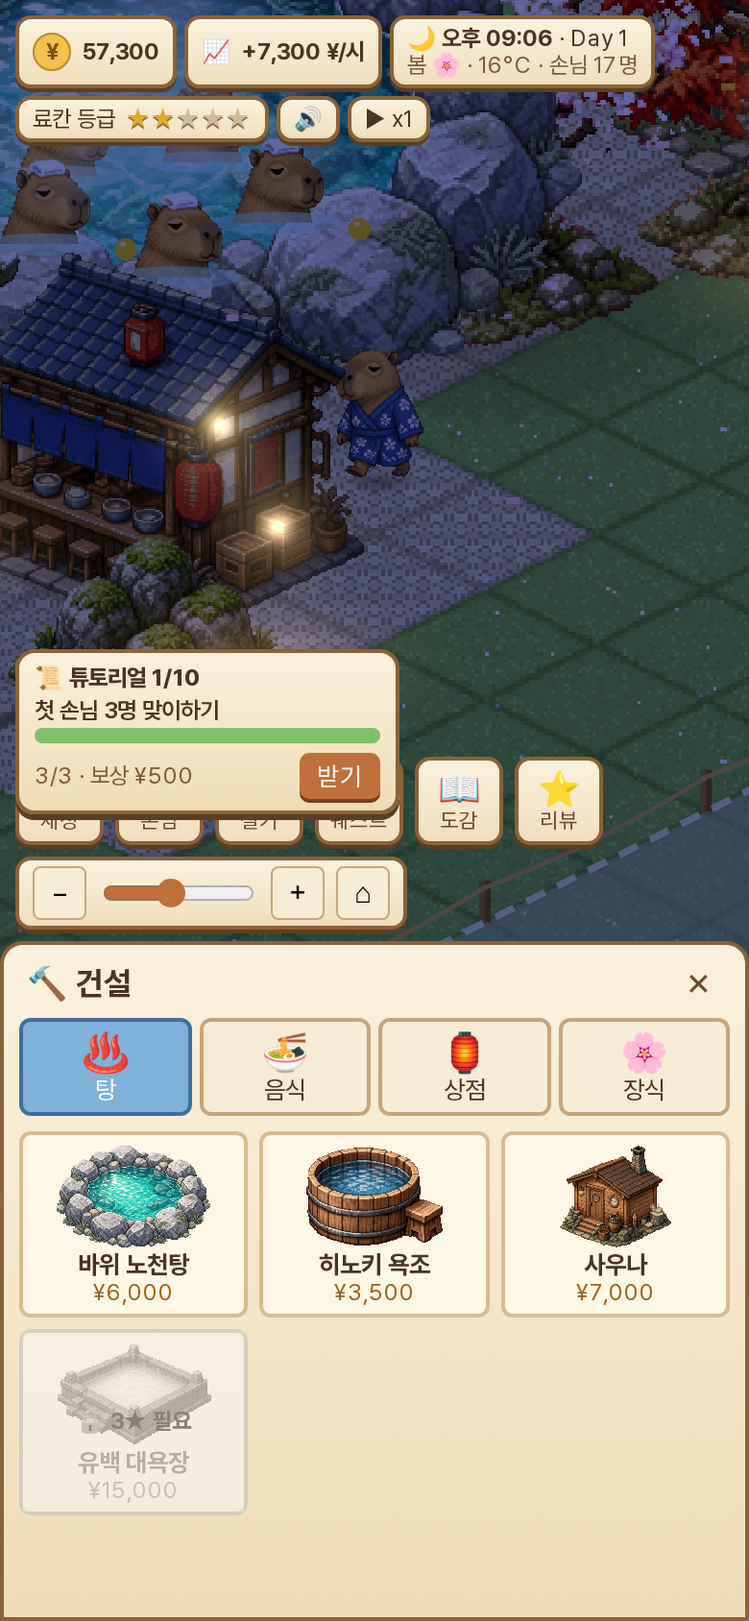
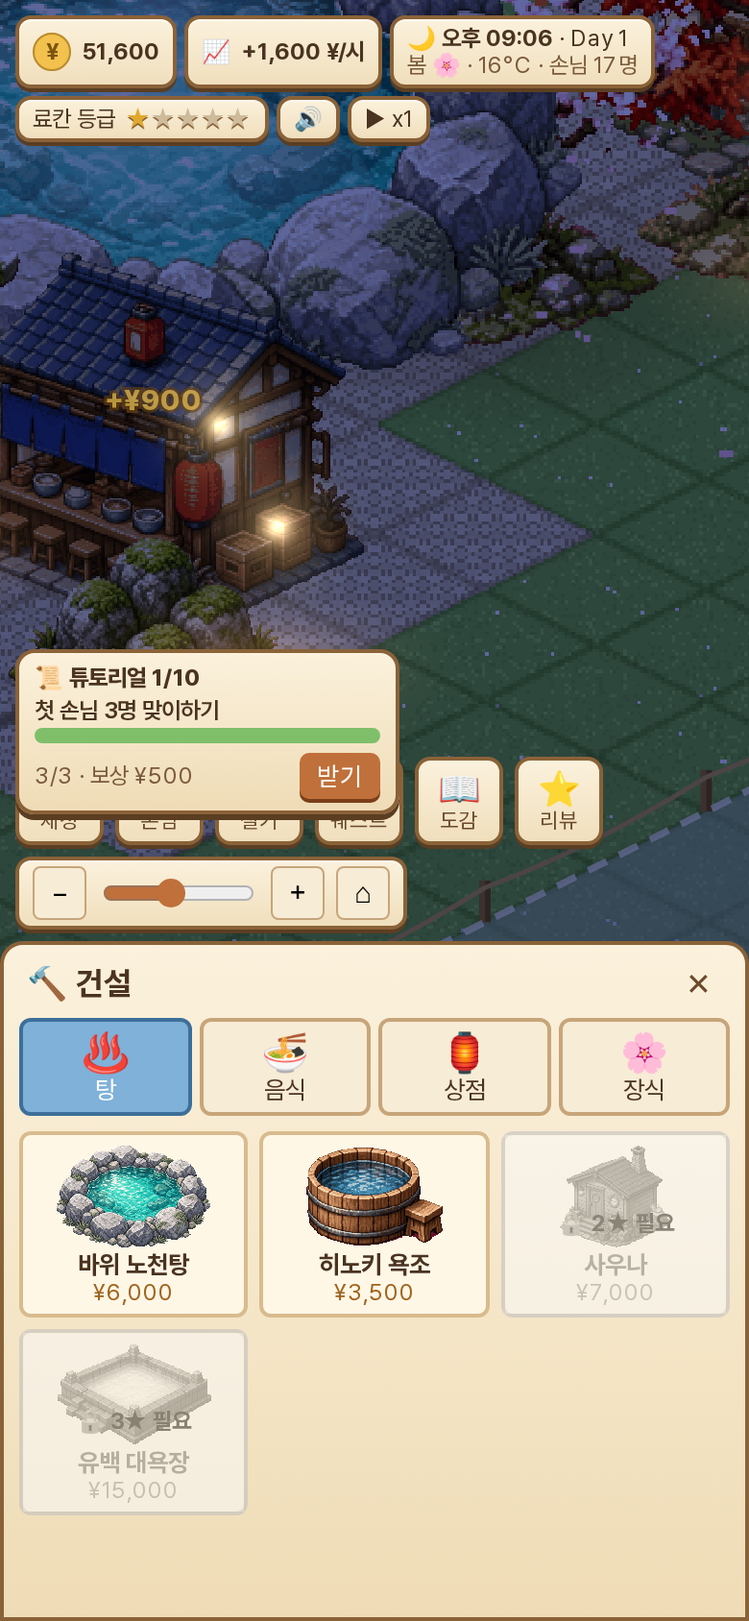
v2.6 ambient + zen mode

diff --git a/game.js b/game.js
@@ -17,9 +17,9 @@ const DEF={
  yuzu:{n:'유자차 매점',tab:'shop',img:'yuzu',fp:2,sc:1,cost:2500,price:350,cap:3,dur:8,eff:{thirst:-60,fun:8},wage:25,star:1,appeal:6,desc:'따끈한 유자차 한 잔'},
  gift:{n:'기념품 가게',tab:'shop',img:'gift',fp:2,sc:1,cost:6000,price:1500,cap:3,dur:12,eff:{fun:-0,joy:30},wage:50,star:2,appeal:7,fun:1,light:[[0.2,-0.4]],desc:'카피바라 인형이 인기'},
  room:{n:'객실 별채',tab:'shop',img:'room',fp:3,sc:1,cost:12000,price:6000,cap:4,dur:0,eff:{fatigue:-100},wage:90,star:2,appeal:10,stay:1,light:[[-0.2,-0.3],[0.25,-0.3],[0,-0.55]],desc:'밤에 묵어가는 손님용 객실'},
- sakura:{n:'벚꽃나무',tab:'deco',img:'sakura',fp:1,sc:2.3,cost:1200,beauty:8,star:1,emit:'petal',desc:'꽃잎이 흩날려요'},
- maple:{n:'단풍나무',tab:'deco',img:'maple',fp:1,sc:2.3,cost:1200,beauty:8,star:1,emit:'leaf',desc:'붉은 잎이 떨어져요'},
- pine:{n:'눈 내린 소나무',tab:'deco',img:'pine',fp:1,sc:2.0,cost:2000,beauty:10,star:2,emit:'snow',desc:'주변에 눈이 내려요'},
+ sakura:{tree:1,n:'벚꽃나무',tab:'deco',img:'sakura',fp:1,sc:2.3,cost:1200,beauty:8,star:1,emit:'petal',desc:'꽃잎이 흩날려요'},
+ maple:{tree:1,n:'단풍나무',tab:'deco',img:'maple',fp:1,sc:2.3,cost:1200,beauty:8,star:1,emit:'leaf',desc:'붉은 잎이 떨어져요'},
+ pine:{tree:1,n:'눈 내린 소나무',tab:'deco',img:'pine',fp:1,sc:2.0,cost:2000,beauty:10,star:2,emit:'snow',desc:'주변에 눈이 내려요'},
  lantern:{n:'석등롱',tab:'deco',img:'lantern',fp:1,sc:1.25,cost:600,beauty:5,star:1,light:[[0,-0.55]],desc:'밤이면 은은히 빛나요'},
  rocks:{n:'정원석',tab:'deco',img:'rocks',fp:1,sc:1.4,cost:400,beauty:4,star:1,desc:'이끼 낀 정원석'},
  gate:{n:'대문',img:'gate',fp:1,cost:0,star:9,walk:1,gate:1,light:[[-0.33,-0.42],[0.22,-0.3]],desc:'손님이 드나드는 유일한 입구'},
@@ -27,6 +27,7 @@ const DEF={
  path_wood:{n:'나무 데크길',tab:'deco',img:null,ic:'🪵',fp:1,cost:80,beauty:2,star:1,isPath:1,desc:'따뜻한 나무 데크'},
  path_gravel:{n:'자갈길',tab:'deco',img:null,ic:'⚪',fp:1,cost:30,beauty:1,star:1,isPath:1,desc:'사각사각 자갈길'},
  path_tatami:{n:'다다미 회랑',tab:'deco',img:null,ic:'🟩',fp:1,cost:150,beauty:3,star:2,isPath:1,desc:'료칸 느낌의 회랑'},
+ pond:{n:'비단잉어 연못',tab:'deco',img:null,ic:'🐟',fp:3,cost:3000,beauty:14,star:1,flat:1,pond:1,desc:'잉어가 헤엄치고 연잎이 떠 있어요'},
  path_erase:{n:'길 지우기',tab:'deco',img:null,ic:'🧽',fp:1,cost:0,star:1,erase:1,desc:'드래그해서 길 제거 (50% 환불)'},
 };
 const TABS=[['bath','♨','탕'],['food','🍜','음식'],['shop','🏮','상점'],['deco','🌸','장식']];
@@ -117,13 +118,16 @@ function buildGround(){
   const key=x+','+y,pk=pathMap[key],cob=!pk&&near.has(key);
   const tmp=tileTex(pk||(cob?1:0),(x*7+y*13)%12,(x+y)%2);g.drawImage(tmp,X-TW/2,Y,TW,TH);
   if(!pk){g.beginPath();g.moveTo(X,Y+0.25);g.lineTo(X+TW/2-0.5,Y+TH/2);g.lineTo(X,Y+TH-0.25);g.lineTo(X-TW/2+0.5,Y+TH/2);g.closePath();
-  g.lineWidth=0.5;g.strokeStyle=cob?'rgba(90,78,62,0.45)':'rgba(48,84,36,0.42)';g.stroke()}
+  if(cob){g.lineWidth=0.5;g.strokeStyle='rgba(90,78,62,0.35)';g.stroke()}}
   else{ // 오토타일: 다른 종류와 맞닿은 변에만 테두리
    const T=[X,Y],R=[X+TW/2,Y+TH/2],B=[X,Y+TH],L=[X-TW/2,Y+TH/2];const ed={path:'#7d7466',path_wood:'#5a3c22',path_gravel:'#9a9286',path_tatami:'#4f5a2a'}[pk];
    const sides=[[[0,-1],L,T],[[1,0],T,R],[[0,1],R,B],[[-1,0],B,L]];g.lineWidth=1.1;g.strokeStyle=ed;
    for(const[[dx,dy],a,b]of sides){if(pathMap[(x+dx)+','+(y+dy)]===pk)continue;g.beginPath();g.moveTo(...a);g.lineTo(...b);g.stroke();
     g.save();g.globalAlpha=0.25;g.strokeStyle='#000';g.lineWidth=0.6;g.beginPath();g.moveTo(a[0],a[1]+0.8);g.lineTo(b[0],b[1]+0.8);g.stroke();g.restore()}}
  }
+ {const r=rng(777);g.save();g.beginPath();g.moveTo(ox,0);g.lineTo(ox+N*TW/2,N*TH/2);g.lineTo(ox,N*TH);g.lineTo(ox-N*TW/2,N*TH/2);g.clip();
+  for(let i=0;i<70;i++){const[ix,iy]=iso(r()*N,r()*N);const R=30+r()*70;const dk=r()<0.5;const gr=g.createRadialGradient(ox+ix,iy,0,ox+ix,iy,R);gr.addColorStop(0,dk?'rgba(40,70,40,0.13)':'rgba(230,220,150,0.10)');gr.addColorStop(1,'rgba(0,0,0,0)');g.fillStyle=gr;g.save();g.translate(ox+ix,iy);g.scale(1,0.5);g.translate(-ox-ix,-iy);g.fillRect(ox+ix-R,iy-R,R*2,R*2);g.restore()}g.restore()}
+ BUS.emit('groundCache',g,ox);
  groundDirty=false;
 }
 const TEX={};
@@ -137,8 +141,8 @@ function tileTex(cob,vr,par){const key=cob+'_'+vr+'_'+par;const ty=typeof cob=='
    else if(ty=='path_tatami'){const bx=(px+py*2)%32<2||(px-py*2+256)%64<2;c=bx?[70,78,40]:[196+((px*3+py)%5)-n*8,198-n*8,132-n*6];if(!bx&&(px+py*2)%3==0)c=[c[0]-10,c[1]-10,c[2]-8]}
    else if(cob){const sx=Math.floor((px+py*2)/7),sy=Math.floor((px-py*2+140)/7);const seam=((px+py*2)%7==0)||((px-py*2+140)%7==0);
      const v=((sx*7+sy*13+x*3+y*5)%5)*6;c=seam?[150,140,124]:[196+v-n*10,186+v-n*10,166+v-n*8];}
-   else{const v=n<0.08?22:n<0.2?-12:0;const fl=n>0.995;c=fl?[255,240,246]:[118+v+par*4,170+v,92+v*0.6];
-     if(n>0.985&&!fl)c=[150,196,108];}
+   else{const v=n<0.08?22:n<0.2?-12:0;const fl=n>0.995;c=fl?[250,238,226]:[114+v*0.7+par*3,156+v*0.8,90+v*0.5];
+     if(n>0.985&&!fl)c=[140,176,104];}
    const i=(py*TW*2+px)*4;id.data[i]=c[0];id.data[i+1]=c[1];id.data[i+2]=c[2];id.data[i+3]=255;}
   const tmp=mk(TW*2,TH*2);tmp.getContext('2d').putImageData(id,0,0);return TEX[key]=tmp}
 // ===== 오브젝트 =====
@@ -189,6 +193,7 @@ const THOUGHT={
  none:{fatigue:'쉴 곳이 없네…',hunger:'뭐 먹을 데 없나…',thirst:'목말라요…',fun:'좀 심심하다'},
  want:{fatigue:'온천 하고 싶다',hunger:'배고파요',thirst:'우유 마시고 싶다',fun:'구경하고 싶어요'}};
 function entrance(){const s=START_PLOT;return[s[0]*PS+PS/2,s[1]*PS+PS]}
+function wageNow(h){const nt=(h%24)>=23||(h%24)<6;return Math.round(S.objs.reduce((s,o)=>{const d=DEF[o.k];if(!d.wage)return s;const w=d.wage*(1+0.5*(o.lv-1));return s+(nt&&!d.stay&&!d.night?w*0.3:w)},0)+S.objs.filter(o=>!DEF[o.k].isPath&&!DEF[o.k].wage).length*4)}
 function capTotal(){return S.objs.reduce((a,o)=>{const d=DEF[o.k];return a+(d.cap&&!d.stay?d.cap+o.lv-1:0)},0)}
 function maxGuests(){return Math.min(12+stars()*8,Math.round(capTotal()*1.5)+4)}
 function spawnRate(){const h=hour();const f=h<6?0.05:h<9?0.5:h<12?0.7:h<15?0.6:h<17?0.8:h<21?1.15:h<23?0.5:0.15;return f*(0.12+stars()*0.06)}
@@ -276,7 +281,7 @@ function emit(dt){
   if(d.emit&&Math.random()<dt*2.2){parts.push({k:d.emit,x:o.x+0.5+(Math.random()-0.5)*4,y:o.y+0.5+(Math.random()-0.5)*4,h:30+Math.random()*25,vx:0,l:6,L:6,ph:Math.random()*6})}}
  if(season()==3&&Math.random()<dt*6){const r=rng(Date.now()|0);parts.push({k:'snow',x:Math.random()*N,y:Math.random()*N,h:60,l:8,L:8,ph:Math.random()*6})}
 }
-function updParts(dt){for(const o of S.objs)if(o.sway)o.sway=Math.max(0,o.sway-dt*0.35);for(const p of parts){p.l-=dt;if(p.k=='spark'){p.h+=p.vh*dt;p.vh*=0.96;continue}if(p.k=='dust'){p.x+=p.vx*dt;p.y+=p.vy*dt;p.vx*=0.92;p.vy*=0.92;continue}if(p.k=='steam'){p.h+=dt*9;p.x+=p.vx*dt;p.s+=dt*2.5}else{if(p.h>0){p.h-=dt*(p.k=='snow'?6:8);p.ph+=dt*2;p.x+=Math.sin(p.ph)*dt*0.25+dt*0.12}else{p.h=0;p.l=Math.min(p.l,1.5)}}}
+function updParts(dt){for(const o of S.objs)if(o.sway)o.sway=Math.max(0,o.sway-dt*0.35);for(const p of parts){p.l-=dt;if(p.k=='spark'){p.h+=p.vh*dt;p.vh*=0.96;continue}if(p.k=='dust'){p.x+=p.vx*dt;p.y+=p.vy*dt;p.vx*=0.92;p.vy*=0.92;continue}if(p.k=='steam'){p.h+=dt*9;p.x+=(p.vx+(window.WIND||0)*0.12)*dt;p.y-=(window.WIND||0)*0.06*dt;p.s+=dt*2.5}else{if(p.h>0){p.h-=dt*(p.k=='snow'?6:8);p.ph+=dt*2;p.x+=Math.sin(p.ph)*dt*0.25+dt*0.12}else{p.h=0;p.l=Math.min(p.l,1.5)}}}
  parts=parts.filter(p=>p.l>0);floats.forEach(f=>f.l-=dt);floats=floats.filter(f=>f.l>0);bubbles.forEach(b=>b.l-=dt);bubbles=bubbles.filter(b=>b.l>0&&!b.g.dead&&!b.g.hide);
  for(const k in anims){anims[k].t+=dt;if(anims[k].t>1.6)delete anims[k]}}
 // ===== 렌더 =====
@@ -304,10 +309,11 @@ function render(t){
  drawPlots(t,lt);
  // 건설 모드 그리드 + 열린 구역 테두리
  drawGrid();
+ BUS.emit('ground',t,lt);
  if(paint){const{t}=paintPlan();const er=DEF[ghost].erase;cx.fillStyle=er?'rgba(240,110,100,0.5)':'rgba(140,230,140,0.5)';for(const[x,y]of t){const[X,Y]=iso(x,y);cx.beginPath();cx.moveTo(X,Y);cx.lineTo(X+16,Y+8);cx.lineTo(X,Y+16);cx.lineTo(X-16,Y+8);cx.fill()}}
  // 그림자 + 오브젝트 + 손님 정렬
  const list=[];
- for(const o of S.objs){if(!!DEF[o.k].isPath||o===moving)continue;const t=tilesOf(o),l=t[t.length-1];
+ for(const o of S.objs){if(!!DEF[o.k].isPath||DEF[o.k].flat||o===moving)continue;const t=tilesOf(o),l=t[t.length-1];
   if(o.k=='gate'){list.push({x0:t[0][0],y0:t[0][1],x1:t[0][0]+1,y1:t[0][1]+1,o,part:'back'});list.push({x0:l[0],y0:l[1],x1:l[0]+1,y1:l[1]+1,o,part:'front'});continue}
   list.push({x0:o.x,y0:o.y,x1:l[0]+1,y1:l[1]+1,o})}
  for(const g of guests)if(!g.hide&&!g.inBath)list.push({x0:g.x-0.15,y0:g.y-0.15,x1:g.x+0.15,y1:g.y+0.15,g});
@@ -324,7 +330,7 @@ function render(t){
  for(const it of list){
   if(it.part){const o=it.o,G=objGeom(o);drawSprite(skey(o)+'_'+it.part,o,G.X,G.Y,G.W,lt,sv,1)}
   else if(it.o){const o=it.o,d=DEF[o.k],G=objGeom(o);const an=anims['o'+S.objs.indexOf(o)];const pop=an?Math.min(1,an.t*3):1;
-   const Wp=G.W*(0.7+0.3*easeOut(pop));const fade=hidden.has(o)&&!d.bath&&d.fp>1;drawSprite(skey(o),o,G.X,G.Y,Wp,lt,sv,pop*(fade?0.5:1));
+   const Wp=G.W*(0.7+0.3*easeOut(pop));const fade=hidden.has(o)&&!d.bath&&d.fp>1;const sw_=d.tree?(Math.sin(t/1100+o.x*1.7+o.y)*0.018+(window.WIND||0)*0.025+(o.sway||0)*Math.sin(t/110)*0.25):0;if(sw_){cx.save();cx.translate(G.X,G.Y);cx.transform(1,0,-sw_,1,0,0);cx.translate(-G.X,-G.Y)}drawSprite(skey(o),o,G.X,G.Y,Wp,lt,sv,pop*(fade?0.5:1));if(sw_)cx.restore();
    if(d.bath){drawWater(o,G,t,lt);guests.filter(g=>g.inBath&&g.cur===o).sort((a,b)=>a.x+a.y-b.x-b.y).forEach(g=>drawGuest(g,t,lt,sv));const ov=skey(o)+'_over';if(VAR[ov]&&guests.some(g=>g.inBath&&g.cur===o))drawSprite(ov,o,G.X,G.Y,Wp,lt,sv,pop)}
    if(o.lv>1){for(let i=0;i<o.lv-1;i++){cx.fillStyle='#f6cf5a';cx.fillRect(G.X-8+i*4,G.Y+1,3,3)}}}
   else drawGuest(it.g,t,lt,sv);}
@@ -337,7 +343,7 @@ function render(t){
   else if(p.k=='spark'){cx.globalAlpha=Math.min(1,p.l);const tw=(Math.sin(t/60+p.x*9)+1)/2;cx.fillStyle=tw>0.5?'#fff6c0':'#ffd65a';cx.fillRect(X-1,Y-p.h-1,2,2);if(tw>0.6){cx.fillRect(X-3,Y-p.h-0.4,6,0.8);cx.fillRect(X-0.4,Y-p.h-3,0.8,6)}}
   else if(p.k=='dust'){cx.globalAlpha=0.5*p.l;cx.fillStyle='#e8dcc0';cx.beginPath();cx.arc(X,Y,2+(0.9-p.l)*4,0,6.283);cx.fill()}
   else{cx.globalAlpha=Math.min(1,p.l);cx.fillStyle=p.k=='petal'?'#ffc6d9':p.k=='leaf'?(p.ph%2<1?'#e8643a':'#f0a03a'):'#ffffff';const w=p.k=='snow'?1:Math.abs(Math.sin(p.ph))*1.5+0.6;cx.fillRect(X,Y-p.h,w,1)}}
- cx.globalAlpha=1;
+ cx.globalAlpha=1;BUS.emit('over',t,lt,sv);
  // 빛줄기 (낮) – 김 사이로
  if(lt.sun>0.2){cx.save();cx.globalCompositeOperation='screen';for(const o of S.objs){if(!DEF[o.k].bath)continue;const G=objGeom(o);
    for(let i=0;i<3;i++){const ox=G.X-G.W*0.35+i*G.W*0.3+Math.sin(t/3000+i)*4;const a=(0.07+0.04*Math.sin(t/1700+i*2))*lt.sun;
@@ -359,6 +365,7 @@ function render(t){
     glow(X,Y,14*z,`rgba(255,214,140,${0.55*k*fl})`);glow(X,Y,4*z,`rgba(255,240,200,${0.8*k})`);
     const[gx,gy]=toScreen(G.X+lx*G.W,G.Y+2);cx.save();cx.translate(gx,gy);cx.scale(1,0.5);glow(0,0,30*z,`rgba(255,180,100,${0.22*k*fl})`);cx.restore()}}}
  cx.globalCompositeOperation='source-over';
+ BUS.emit('screen',t,lt);cx.globalCompositeOperation='source-over';cx.globalAlpha=1;
  drawText(t,lt);
 }
 function drawGrid(){const P=N/PS;
@@ -383,14 +390,15 @@ function drawWater(o,G,t,lt){const d=DEF[o.k],f=d.fp;const[cX,cY]=iso(o.x+f/2,o.
  // 스펙큘러
  const r=rng(Math.floor(t/220)+o.x*31);for(let i=0;i<10;i++){const a=r()*6.28,rr=Math.sqrt(r());cx.fillStyle=`rgba(255,255,240,${0.5+0.5*lt.sun})`;cx.fillRect(cX+Math.cos(a)*rx*rr,cY+Math.sin(a)*ry*rr,1,0.6)}
  if(lt.night>0.4){cx.fillStyle=`rgba(255,200,120,${0.12*lt.night})`;cx.fillRect(cX-rx,cY-ry,rx*2,ry*2)}
+ cx.globalCompositeOperation='source-over';BUS.emit('water',o,cX,cY,rx,ry,t,lt);
  cx.restore();}
 function drawGuest(g,t,lt,sv){const[X,Y]=iso(g.x,g.y);if(g.vip||g.reg){cx.save();cx.globalCompositeOperation='lighter';const gr=cx.createRadialGradient(X,Y-6,0,X,Y-6,12);gr.addColorStop(0,g.vip?'rgba(255,215,90,0.35)':'rgba(140,200,255,0.28)');gr.addColorStop(1,'rgba(0,0,0,0)');cx.fillStyle=gr;cx.fillRect(X-12,Y-18,24,24);cx.restore()}
- if(g.inBath){const v=VAR[g.cb];if(!v)return;const W=17,h=W*v.base.height/v.base.width,bob=Math.sin(t/600+g.bob)*0.4,ch=h*0.8;
+ if(g.inBath){const v=VAR[g.cb];if(!v)return;const W=17,h=W*v.base.height/v.base.width,bob=Math.sin(t/600+g.bob)*0.4-(g.hz||0)*0.5,ch=h*0.8;
   cx.drawImage(v.base,0,0,v.base.width,v.base.height*0.8,X-W/2,Y-ch+2+bob,W,ch);
   cx.fillStyle='rgba(180,240,240,0.55)';cx.beginPath();cx.ellipse(X,Y+2+bob,W*0.55,1.6,0,0,6.283);cx.fill();
   if(g.slot%3==1){const yx=X+W*0.7,yy=Y+2+Math.sin(t/700+g.bob)*0.6;cx.fillStyle='#f6c431';cx.beginPath();cx.arc(yx,yy,1.6,0,6.283);cx.fill();cx.fillStyle='#fff3a0';cx.fillRect(yx-0.8,yy-1,0.8,0.6)}
   return}
- const v=VAR[g.spr];if(!v)return;const W=14,h=W*v.base.height/v.base.width;const moving=Math.hypot(g.tx-g.x,g.ty-g.y)>0.05;const bob=(moving?Math.abs(Math.sin(t/120+g.bob))*1.2:0)+(g.z||0);
+ const v=VAR[g.spr];if(!v)return;const W=14,h=W*v.base.height/v.base.width;const moving=Math.hypot(g.tx-g.x,g.ty-g.y)>0.05;const bob=(moving?Math.abs(Math.sin(t/120+g.bob))*1.2:0)+(g.z||0)+(g.hz||0);
  cx.globalAlpha=g.fade;ao(X,Y,5,2.2,0.35);
  if(lt.sun>0.1){cx.save();cx.globalAlpha=0.25*lt.sun*g.fade;cx.translate(X,Y);cx.transform(1,0,-sv.kx,sv.ky,0,0);cx.drawImage(v.sil,-W/2,-h,W,h);cx.restore()}
  cx.globalAlpha=g.fade;cx.save();cx.translate(X,Y-bob);cx.scale(g.dir,1);cx.drawImage(v.base,-W/2,-h,W,h);if(lt.sun>0.15){cx.globalAlpha=0.45*lt.sun*g.fade;cx.drawImage(sv.left?v.rimL:v.rimR,-W/2,-h,W,h)}cx.restore();cx.globalAlpha=1}
@@ -441,14 +449,14 @@ function showInfo(o){if(o.k=='gate'){const el=$('info');el.style.display='block'
  const users=guests.filter(g=>g.cur===o).length;
  el.innerHTML=`<h3>${d.n} <small>Lv.${o.lv}</small></h3><div style="color:#7a5a3a;margin-bottom:6px">${d.desc}</div>`+
  (d.price?`<div class="row"><span>이용 요금</span><b>¥${fmt(o.price)}</b></div><div style="display:flex;gap:4px;margin:4px 0"><button class="b g" data-p="-0.1">−10%</button><button class="b g" data-p="0.1">+10%</button><button class="b g" data-p="0">기본</button></div>
-  <div class="row"><span>이용 중</span><b>${users}/${d.cap+o.lv-1}</b></div><div class="row"><span>누적 이용</span><b>${o.uses||0}회</b></div><div class="row"><span>누적 매출</span><b>¥${fmt(o.earn||0)}</b></div><div class="row"><span>직원 급여</span><b>¥${fmt(d.wage*o.lv)}/시</b></div>
+  <div class="row"><span>이용 중</span><b>${users}/${d.cap+o.lv-1}</b></div><div class="row"><span>누적 이용</span><b>${o.uses||0}회</b></div><div class="row"><span>누적 매출</span><b>¥${fmt(o.earn||0)}</b></div><div class="row"><span>직원 급여</span><b>¥${fmt(d.wage*(1+0.5*(o.lv-1)))}/시</b></div>
   <div style="font-size:12px;color:#7a5a3a;margin-top:4px">적정가 약 ¥${fmt(d.price*(1+o.lv*0.12))} · 너무 비싸면 손님이 돌아가요</div>`:`<div class="row"><span>아름다움</span><b>+${d.beauty}</b></div>`)+
  `<div style="margin-top:6px">${o.lv<5&&d.price?`<button class="b" id="iUp">업그레이드 ¥${fmt(up)}</button>`:''}<button class="b g" id="iMove">이동</button><button class="b g" id="iDel">철거</button><button class="b g" id="iCl">닫기</button></div>`;
  el.querySelectorAll('[data-p]').forEach(b=>b.onclick=()=>{const p=+b.dataset.p;o.price=p==0?d.price:Math.max(50,Math.round(o.price*(1+p)/10)*10);showInfo(o)});
  if($('iUp'))$('iUp').onclick=()=>{if(S.yen<up)return toast('엔이 부족해요');S.yen-=up;S.fin.exp+=up;o.lv++;anims['o'+S.objs.indexOf(o)]={t:0};upFx(o);BUS.emit('upgrade',o);toast(`${d.n} Lv.${o.lv}!${o.lv==3||o.lv==5?' 외관이 바뀌었어요 ✨':''}`);showInfo(o);save()};
  $('iDel').onclick=()=>remove(o);$('iMove').onclick=()=>startMove(o);$('iCl').onclick=()=>el.style.display='none';}
 function remove(o){if(o.k=='gate')return toast('대문은 철거할 수 없어요. 이동만 가능해요');if(S.objs.length<=1)return;S.yen+=Math.floor(DEF[o.k].cost*0.4);guests.forEach(g=>{if(g.cur===o)finish(g);if(g.target===o)g.target=null});S.objs.splice(S.objs.indexOf(o),1);OCC=occ();groundDirty=true;$('info').style.display='none';save()}
-function modalFin(){const m=$('modal');const wages=S.objs.reduce((s,o)=>s+(DEF[o.k].wage||0)*o.lv,0),up=S.objs.filter(o=>!DEF[o.k].isPath).length*8;
+function modalFin(){const m=$('modal');const up=S.objs.filter(o=>!DEF[o.k].isPath&&!DEF[o.k].wage).length*4,wages=wageNow(12)-up;
  const rows=S.objs.filter(o=>DEF[o.k].price).sort((a,b)=>(b.earn||0)-(a.earn||0)).slice(0,8).map(o=>`<div class="row"><span>${DEF[o.k].n} Lv.${o.lv}</span><b>¥${fmt(o.earn||0)}</b></div>`).join('');
  m.innerHTML=`<h3>📊 재정</h3><div class="row"><span>보유 자금</span><b>¥${fmt(S.yen)}</b></div><div class="row"><span>평균 순이익</span><b>¥${fmt(avgNet())}/시</b></div><div class="row"><span>오늘 수입</span><b>¥${fmt(S.fin.inc)}</b></div><div class="row"><span>오늘 지출</span><b>¥${fmt(S.fin.exp)}</b></div>
  <div class="row"><span>직원 급여</span><b>¥${fmt(wages)}/시</b></div><div class="row"><span>시설 유지비</span><b>¥${fmt(up)}/시</b></div><h3 style="margin-top:10px">시설별 매출</h3>${rows}<div style="text-align:right"><button class="b" onclick="this.closest('.panel').style.display='none'">닫기</button></div>`;m.style.display='block'}
@@ -461,6 +469,7 @@ function modalGuest(){const m=$('modal');const n=guests.length||1;const avg=k=>g
 const ptrs=new Map();let drag=null,pinch=null,lp=null,lastTap={};
 function onTap(sx,sy){const[fx,fy]=toTile(sx,sy);const x=Math.floor(fx),y=Math.floor(fy);
  for(const s of window._signs||[]){const[X,Y]=toScreen(s.X,s.Y);if(Math.abs(sx-X)<16*cam.z/1.5+10&&Math.abs(sy-Y)<10*cam.z/1.5+8){unlock(s);return}}
+ if(!ghost&&!moving&&window.AMB&&AMB.tap(fx,fy,sx,sy))return;
  if(ghost){if(!canPlace(ghost,x,y))return toast(tileOpen(x,y)?'여기엔 지을 수 없어요':'잠긴 구역이에요. 표지판을 눌러 열어주세요');const d=DEF[ghost];if(S.yen<d.cost)return toast('엔이 부족해요');
   S.yen-=d.cost;S.fin.exp+=d.cost;S.objs.push({k:ghost,x,y,lv:1,price:d.price||0,uses:0,earn:0});anims['o'+(S.objs.length-1)]={t:0};OCC=occ();groundDirty=true;
   for(let i=0;i<10;i++)parts.push({k:'steam',x:x+d.fp/2+(Math.random()-0.5)*d.fp,y:y+d.fp/2+(Math.random()-0.5)*d.fp,h:0,vx:0,l:1,L:1,s:2});if(ghost=='path'){}else if(!ev.shift){ghost=null;buildCards()}save();return}
@@ -514,7 +523,7 @@ let last=0,acc=0,hourAcc=0,saveAcc=0;
 function step(dt){
  const gm=dt*2; // 실시간 1초 = 게임 2분
  const prevH=Math.floor(S.min/60);S.min+=gm;const nowH=Math.floor(S.min/60);
- if(nowH!=prevH){const wages=S.objs.reduce((s,o)=>s+(DEF[o.k].wage||0)*o.lv,0)+S.objs.filter(o=>!DEF[o.k].isPath).length*8;const pay=Math.min(wages,Math.max(0,S.yen)),unpaid=wages-pay;S.yen-=pay;if(unpaid>0){S.rep=Math.max(0,S.rep-1.5);if(!S._wt||S.min-S._wt>600){S._wt=S.min;toast('⚠ 자금 부족! 직원 급여를 다 못 줘서 평판이 떨어지고 있어요')}}BUS.emit('hour',nowH);if(nowH%24==0)BUS.emit('day',Math.floor(nowH/24)+1);S.fin.exp+=wages;
+ if(nowH!=prevH){const wages=wageNow(nowH);const pay=Math.min(wages,Math.max(0,S.yen)),unpaid=wages-pay;S.yen-=pay;if(unpaid>0){S.rep=Math.max(0,S.rep-1.5);if(!S._wt||S.min-S._wt>600){S._wt=S.min;toast('⚠ 자금 부족! 직원 급여를 다 못 줘서 평판이 떨어지고 있어요')}}BUS.emit('hour',nowH);if(nowH%24==0)BUS.emit('day',Math.floor(nowH/24)+1);S.fin.exp+=pay;
   S.fin.hist.push((S.fin._h||0)-wages);S.fin._h=0;if(S.fin.hist.length>48)S.fin.hist.shift();if(nowH%24==0){S.fin.inc=0;S.fin.exp=0}}
  const before=S.yen;
  if(Math.random()<dt*spawnRate()*3&&guests.length<maxGuests())spawn();
@@ -533,7 +542,7 @@ function frame(now){warnAcc+=1;if(warnAcc%90==1)checkReach();const dt=Math.min(0
  if(homeAnim){homeAnim.t+=dt/0.9;const k=easeOut(Math.min(1,homeAnim.t));const f=homeAnim.to.k?DEF[homeAnim.to.k].fp:1;const save_=cam.z;
   const z=lerp(homeAnim.from.z,VW>820?5.2:3.6,k);cam.z=z;cam.tz=z;const[wx,wy]=iso(homeAnim.to.x+f/2,homeAnim.to.y+f/2);const tx_=VW*(VW>820?0.42:0.5)-wx*z,ty_=VH*(VW>820?0.5:0.33)-wy*z;
   cam.x=lerp(homeAnim.from.x,tx_,k);cam.y=lerp(homeAnim.from.y,ty_,k);if(homeAnim.t>=1)homeAnim=null}
- render(now);hud();saveAcc+=dt;if(saveAcc>5){saveAcc=0;save()}
+ BUS.emit('frame',dt,now);render(now);hud();saveAcc+=dt;if(saveAcc>5){saveAcc=0;save()}
  requestAnimationFrame(frame)}
 async function boot(){resize();addEventListener('resize',resize);load();S.objs.forEach(o=>o.users=0);migrateLayout();migrate();OCC=occ();ensureGate();OCC=occ();
  await Promise.all([loadImgs(),document.fonts.load('700 14px Pretendard'),document.fonts.ready]);
@@ -550,4 +559,4 @@ async function boot(){resize();addEventListener('resize',resize);load();S.objs.f
 const _drawSprite=drawSprite;
 boot();
 // 테스트 훅
-window.__dbg={maxG:()=>maxGuests(),reachOK(){const gi=gateInfo();if(!gi)return true;const seen=new Set([gi.m.join(',')]),q=[gi.m];while(q.length){const[x,y]=q.shift();for(const[dx,dy]of[[1,0],[-1,0],[0,1],[0,-1]]){const k=(x+dx)+','+(y+dy);if(seen.has(k)||!walkable(x+dx,y+dy))continue;seen.add(k);q.push([x+dx,y+dy])}}return S.objs.filter(o=>DEF[o.k].price).every(o=>tilesOf(o).some(([x,y])=>[[1,0],[-1,0],[0,1],[0,-1]].some(([dx,dy])=>seen.has((x+dx)+','+(y+dy)))))},step:dt=>step(dt),stars:()=>stars(),DEF,canPlace,emit:(...a)=>BUS.emit(...a),plotPrice,occ:()=>{OCC=occ();groundDirty=true},ensureGate(){ensureGate()},gate:()=>gateObj(),checkReach,clearGhost(){ghost=null;buildCards()},upFx(o){upFx(o)},setPaint(k,x0,y0,x1,y1,area){ghost=k;paint={x0,y0,x1,y1,area};applyPaint();paint=null},free(k,x0,y0){for(let r=1;r<8;r++)for(let dx=-r;dx<=r;dx++)for(let dy=-r;dy<=r;dy++)if(canPlace(k,x0+dx,y0+dy))return[x0+dx,y0+dy]},scr:(x,y)=>toScreenT(x,y),mig(){migrate();OCC=occ();groundDirty=true},get moving(){return moving},refresh(){OCC=occ();groundDirty=true},get S(){return S},setHour(h){S.min=Math.floor(S.min/1440)*1440+h*60},spawn,guests:()=>guests,focus,cam};
+window.__dbg={focusXY:(x,y,z)=>focus(x,y,z),cam,maxG:()=>maxGuests(),reachOK(){const gi=gateInfo();if(!gi)return true;const seen=new Set([gi.m.join(',')]),q=[gi.m];while(q.length){const[x,y]=q.shift();for(const[dx,dy]of[[1,0],[-1,0],[0,1],[0,-1]]){const k=(x+dx)+','+(y+dy);if(seen.has(k)||!walkable(x+dx,y+dy))continue;seen.add(k);q.push([x+dx,y+dy])}}return S.objs.filter(o=>DEF[o.k].price).every(o=>tilesOf(o).some(([x,y])=>[[1,0],[-1,0],[0,1],[0,-1]].some(([dx,dy])=>seen.has((x+dx)+','+(y+dy)))))},step:dt=>step(dt),stars:()=>stars(),DEF,canPlace,emit:(...a)=>BUS.emit(...a),plotPrice,occ:()=>{OCC=occ();groundDirty=true},ensureGate(){ensureGate()},gate:()=>gateObj(),checkReach,clearGhost(){ghost=null;buildCards()},upFx(o){upFx(o)},setPaint(k,x0,y0,x1,y1,area){ghost=k;paint={x0,y0,x1,y1,area};applyPaint();paint=null},free(k,x0,y0){for(let r=1;r<8;r++)for(let dx=-r;dx<=r;dx++)for(let dy=-r;dy<=r;dy++)if(canPlace(k,x0+dx,y0+dy))return[x0+dx,y0+dy]},scr:(x,y)=>toScreenT(x,y),mig(){migrate();OCC=occ();groundDirty=true},get moving(){return moving},refresh(){OCC=occ();groundDirty=true},get S(){return S},setHour(h){S.min=Math.floor(S.min/1440)*1440+h*60},spawn,guests:()=>guests,focus,cam};

diff --git a/ambient.js b/ambient.js
@@ -1,0 +1,133 @@
+'use strict';
+// ===== 앰비언트: 바람·풀·구름 그림자·연못·물결·생물·카피바라 행동·감상 모드 =====
+const AMB=(()=>{
+ const R=Math.random;let tPrev=0,wind=0,windT=0;window.WIND=0;
+ const blob=(()=>{const c=mk(64,64),g=c.getContext('2d');const gr=g.createRadialGradient(32,32,0,32,32,32);gr.addColorStop(0,'rgba(255,255,255,1)');gr.addColorStop(0.5,'rgba(255,255,255,0.55)');gr.addColorStop(1,'rgba(255,255,255,0)');g.fillStyle=gr;g.fillRect(0,0,64,64);return c})();
+ const tint=(c0)=>{const c=mk(64,64),g=c.getContext('2d');g.drawImage(blob,0,0);g.globalCompositeOperation='source-in';g.fillStyle=c0;g.fillRect(0,0,64,64);return c};
+ const B_SH=tint('#1d2a3a'),B_FF=tint('#d9ff8a'),B_WARM=tint('#ffc070'),B_W=tint('#ffffff');
+ // ---- 풀잎 (열린 빈 잔디 타일, 캐시) ----
+ let tufts=[],tuftSig='';
+ function rebuildTufts(){const r=rng(99);tufts=[];for(let y=0;y<N;y++)for(let x=0;x<N;x++){if(!tileOpen(x,y)||OCC[x+','+y])continue;const n=r()<0.55?1:r()<0.3?2:0;for(let i=0;i<n;i++)tufts.push({x:x+0.15+r()*0.7,y:y+0.15+r()*0.7,h:2+r()*2.5,c:r(),p:r()*6,f:r()<0.06?(r()<0.5?'#f4e7d2':'#f2b8c8'):null})}}
+ function drawTufts(t,lt){const sig=Object.keys(OCC).length+'|'+Object.keys(S.plots).length;if(sig!=tuftSig){tuftSig=sig;rebuildTufts()}
+  const x0=-cam.x/cam.z-20,x1=(VW-cam.x)/cam.z+20,y0=-cam.y/cam.z-20,y1=(VH-cam.y)/cam.z+20;
+  const cols=['#5f8a46','#78a356','#93b866'];cx.lineWidth=0.7;
+  for(let ci=0;ci<3;ci++){cx.strokeStyle=cols[ci];cx.beginPath();
+   for(const u of tufts){if((u.c*3|0)!=ci)continue;const[X,Y]=iso(u.x,u.y);if(X<x0||X>x1||Y<y0||Y>y1)continue;
+    const s=Math.sin(t/700+u.p+u.x*0.6)*0.6+wind*1.4;cx.moveTo(X-1,Y);cx.lineTo(X-1.4+s*0.7,Y-u.h*0.8);cx.moveTo(X,Y);cx.lineTo(X+s,Y-u.h);cx.moveTo(X+1,Y);cx.lineTo(X+1.6+s*0.8,Y-u.h*0.7)}cx.stroke()}
+  for(const u of tufts){if(!u.f)continue;const[X,Y]=iso(u.x,u.y);if(X<x0||X>x1||Y<y0||Y>y1)continue;const s=Math.sin(t/700+u.p)*0.6+wind*1.4;cx.fillStyle=u.f;cx.fillRect(X+s-0.8,Y-u.h-0.8,1.6,1.6);cx.fillStyle='#f6d36a';cx.fillRect(X+s-0.3,Y-u.h-0.3,0.6,0.6)}}
+ // ---- 연못 ----
+ const PD=new WeakMap();
+ function pondData(o){let d=PD.get(o);if(d)return d;const r=rng(o.x*131+o.y*7+3);d={stones:[],koi:[],pads:[]};
+  for(let i=0;i<22;i++){const a=i/22*6.283+r()*0.15;d.stones.push({a,s:0.8+r()*0.6,c:(r()*3)|0})}
+  const KC=[['#f08a3c','#fff4e6'],['#fff4e6','#e0503a'],['#f3b23e','#f3b23e'],['#2b2b2b','#f08a3c']];
+  for(let i=0;i<4;i++)d.koi.push({r:0.25+r()*0.5,sp:(0.12+r()*0.18)*(r()<0.5?1:-1),ph:r()*6.28,c:KC[i%4],w:r()*6});
+  for(let i=0;i<4;i++){const a=r()*6.28,rr=0.35+r()*0.5;d.pads.push({a,rr,s:0.8+r()*0.5,fl:i==1})}
+  d.rip=[];PD.set(o,d);return d}
+ function drawPond(o,t,lt,ghostA){const d=pondData(o);const[cX,cY]=iso(o.x+1.5,o.y+1.5);const rx=3*TW*0.4,ry=rx/2;
+  cx.save();cx.globalAlpha=ghostA||1;
+  // 바닥 그림자 + 물
+  cx.fillStyle='rgba(30,40,30,0.25)';cx.beginPath();cx.ellipse(cX,cY+1.5,rx+3,ry+2.5,0,0,6.283);cx.fill();
+  const wg=cx.createLinearGradient(0,cY-ry,0,cY+ry);wg.addColorStop(0,'#3d6f70');wg.addColorStop(1,'#2a5257');cx.fillStyle=wg;cx.beginPath();cx.ellipse(cX,cY,rx,ry,0,0,6.283);cx.fill();
+  cx.save();cx.beginPath();cx.ellipse(cX,cY,rx-1,ry-0.5,0,0,6.283);cx.clip();
+  // 안쪽 그늘
+  cx.fillStyle='rgba(20,35,35,0.35)';cx.beginPath();cx.ellipse(cX,cY-ry*0.55,rx,ry*0.6,0,0,6.283);cx.fill();
+  // 잉어
+  for(const k of d.koi){const a=t/1000*k.sp+k.ph;const px=cX+Math.cos(a)*rx*k.r*1.3,py=cY+Math.sin(a)*ry*k.r*1.3;const hd=a+(k.sp>0?1.571:-1.571);
+   const ux=Math.cos(hd),uy=Math.sin(hd)*0.5,wig=Math.sin(t/180+k.w)*0.35;
+   cx.globalAlpha=0.85;for(let s=0;s<4;s++){const bx=px-ux*s*1.7+Math.sin(wig*s)*0.6*-uy,by=py-uy*s*1.7;cx.fillStyle=s==1?k.c[1]:k.c[0];cx.beginPath();cx.ellipse(bx,by,s==3?0.8:1.5-s*0.2,s==3?0.8:1.1-s*0.15,hd,0,6.283);cx.fill()}
+   const tx=px-ux*7.2,ty=py-uy*7.2;cx.fillStyle=k.c[0];cx.beginPath();cx.moveTo(tx+ux*1.5,ty+uy*1.5);cx.lineTo(tx-uy*2+Math.sin(t/150+k.w),ty+ux*1.2);cx.lineTo(tx+uy*2+Math.sin(t/150+k.w),ty-ux*1.2);cx.fill();
+   if(R()<0.002){d.rip.push({x:px,y:py,l:1.6})}}
+  cx.globalAlpha=1;
+  // 하늘 반사·물결선
+  cx.fillStyle=`rgba(${lt.sky},0.14)`;cx.fillRect(cX-rx,cY-ry,rx*2,ry*2);
+  cx.globalCompositeOperation='screen';cx.strokeStyle=`rgba(255,255,255,${0.08+0.08*lt.sun})`;cx.lineWidth=0.5;cx.beginPath();
+  for(let i=0;i<5;i++){const yy=cY-ry+((t/120+i*ry*0.45)%(ry*2.2));cx.moveTo(cX-rx,yy);for(let xx=-rx;xx<=rx;xx+=4)cx.lineTo(cX+xx,yy+Math.sin(xx/5+t/500+i)*0.6)}cx.stroke();
+  cx.globalCompositeOperation='source-over';
+  for(const p of d.rip){p.l-=1/60;const k=1.6-p.l;cx.strokeStyle=`rgba(230,250,250,${Math.max(0,p.l/1.6)*0.6})`;cx.beginPath();cx.ellipse(p.x,p.y,1+k*5,0.5+k*2.5,0,0,6.283);cx.stroke()}d.rip=d.rip.filter(p=>p.l>0);
+  cx.restore();
+  // 연잎
+  for(const p of d.pads){const a=p.a+Math.sin(t/4000+p.a)*0.05;const px=cX+Math.cos(a)*rx*p.rr,py=cY+Math.sin(a)*ry*p.rr;cx.fillStyle='#4f7d3a';cx.beginPath();cx.ellipse(px,py,2.6*p.s,1.3*p.s,0,0.5,6.0);cx.lineTo(px,py);cx.fill();cx.fillStyle='#6d9a4c';cx.beginPath();cx.ellipse(px-0.4,py-0.3,1.6*p.s,0.7*p.s,0,0.5,6.0);cx.lineTo(px,py);cx.fill();
+   if(p.fl){cx.fillStyle='#f3c2cf';cx.beginPath();cx.ellipse(px+0.5,py-1,1.3,0.9,0,0,6.283);cx.fill();cx.fillStyle='#fff3f5';cx.fillRect(px+0.1,py-1.8,0.8,0.8)}}
+  // 돌 테두리 (뒤→앞 순서)
+  const st=d.stones.slice().sort((a,b)=>Math.sin(a.a)-Math.sin(b.a));const SC=[['#8f8a80','#b4ad9f'],['#7d7a72','#a39e92'],['#9a9384','#c2baa8']];
+  for(const s of st){const px=cX+Math.cos(s.a)*(rx+0.5),py=cY+Math.sin(s.a)*(ry+0.3);const w=3.2*s.s,h=2.2*s.s;cx.fillStyle='rgba(30,30,25,0.25)';cx.beginPath();cx.ellipse(px+0.5,py+0.9,w,h*0.7,0,0,6.283);cx.fill();
+   cx.fillStyle=SC[s.c][0];cx.beginPath();cx.ellipse(px,py,w,h,0,0,6.283);cx.fill();cx.fillStyle=SC[s.c][1];cx.beginPath();cx.ellipse(px-0.5,py-0.7,w*0.65,h*0.5,0,0,6.283);cx.fill();
+   if(s.c==1){cx.fillStyle='rgba(110,140,70,0.7)';cx.fillRect(px-w*0.6,py-h*0.6,w*0.5,0.9)}}
+  cx.restore()}
+ // ---- 탕 물결/커스틱 ----
+ BUS.on('water',(o,cX,cY,rx,ry,t,lt)=>{
+  cx.globalCompositeOperation='screen';cx.strokeStyle=`rgba(255,255,255,${0.05+0.07*lt.sun})`;cx.lineWidth=0.6;cx.beginPath();
+  for(let i=0;i<7;i++){const ph=i*1.3+o.x;for(let k=0;k<2;k++){const yy=cY-ry+((i+0.5)/7)*ry*2;cx.moveTo(cX-rx,yy);for(let xx=-rx;xx<=rx;xx+=3){cx.lineTo(cX+xx,yy+Math.sin(xx/(4+k)+t/(700+k*230)+ph)*1.2+Math.sin(xx/9-t/900)*0.8)}}}cx.stroke();
+  cx.globalCompositeOperation='source-over';
+  for(const g of guests){if(!g.inBath||g.cur!==o)continue;const[X,Y]=iso(g.x,g.y);const ph=((t/1000+g.bob)%2.4)/2.4;
+   cx.strokeStyle=`rgba(235,255,255,${0.45*(1-ph)})`;cx.lineWidth=0.6;cx.beginPath();cx.ellipse(X,Y+2,6+ph*7,1.8+ph*2.6,0,0,6.283);cx.stroke()}});
+ // ---- 생물 ----
+ const flies=[],butts=[],birds=[],fx=[];
+ function updCreatures(dt,t,lt){
+  const open=Object.keys(S.plots).map(k=>k.split(',').map(Number));const rp=()=>{const p=open[(R()*open.length)|0];return[p[0]*PS+R()*PS,p[1]*PS+R()*PS]};
+  const want=Math.round(Math.max(0,lt.night-0.3)*40);while(flies.length<want){const[x,y]=rp();flies.push({x,y,h:3+R()*12,vx:0,vy:0,p:R()*6,l:0})}if(flies.length>want&&R()<dt*3)flies.pop();
+  for(const f of flies){f.vx+=(R()-0.5)*dt*1.2;f.vy+=(R()-0.5)*dt*1.2;f.vx*=0.97;f.vy*=0.97;f.x+=f.vx*dt;f.y+=f.vy*dt;f.h=Math.max(2,Math.min(18,f.h+(R()-0.5)*dt*10));f.l+=dt}
+  const sea=season();const bw=lt.sun>0.35&&sea!=3?Math.min(7,2+S.objs.filter(o=>DEF[o.k].tree||DEF[o.k].pond).length):0;
+  while(butts.length<bw){const[x,y]=rp();butts.push({x,y,h:6+R()*8,a:R()*6,c:['#f6e7a8','#f0b6c8','#ffffff','#bcd8f2'][(R()*4)|0],p:R()*6})}if(butts.length>bw)butts.pop();
+  for(const b of butts){b.a+=(R()-0.5)*dt*3;b.x+=Math.cos(b.a)*dt*0.9;b.y+=Math.sin(b.a)*dt*0.9;b.h=6+Math.sin(t/900+b.p)*3;if(!tileOpen(b.x|0,b.y|0))b.a+=3.14*dt*4}
+  if(lt.sun>0.3&&birds.length<1&&R()<dt*0.04){const n=3+(R()*4|0),y=VH*(0.08+R()*0.25),dir=R()<0.5?1:-1;for(let i=0;i<n;i++)birds.push({x:dir>0?-30-i*14:VW+30+i*14,y:y+Math.abs(i-n/2)*8,dir,p:R()*6,s:0.8+R()*0.4})}
+  for(const b of birds){b.x+=b.dir*dt*38;b.y+=Math.sin(t/1500+b.p)*0.05}for(let i=birds.length-1;i>=0;i--)if(birds[i].x<-200||birds[i].x>VW+200)birds.splice(i,1);
+  for(const e of fx)e.l-=dt;for(let i=fx.length-1;i>=0;i--)if(fx[i].l<=0)fx.splice(i,1);
+  // 카피바라 행동
+  for(const g of guests){if(g.hop){g.hop-=dt;g.hz=Math.max(0,Math.sin((0.5-g.hop)/0.5*3.14))*5;if(g.hop<=0){g.hop=0;g.hz=0}}
+   if(g.inBath){g.soak=(g.soak||0)+dt;
+    if(R()<dt*0.12)fx.push({k:'drop',x:g.x,y:g.y,n:5,l:0.7,L:0.7});
+    if(g.soak>8&&R()<dt*0.18)fx.push({k:'zz',g,l:2.4,L:2.4});
+    if(R()<dt*0.06){const nb=guests.find(h=>h!==g&&h.inBath&&h.cur===g.cur&&Math.hypot(h.x-g.x,h.y-g.y)<1.2);if(nb)fx.push({k:'note',g,l:1.8,L:1.8,c:R()<0.5?'♪':'♥'})}}
+   else{g.soak=0;if(!g.leaving&&R()<dt*0.01)fx.push({k:'yawn',g,l:1.4,L:1.4})}}
+  if(fx.length>60)fx.splice(0,fx.length-60)}
+ BUS.on('ground',(t,lt)=>{drawTufts(t,lt);for(const o of S.objs)if(DEF[o.k].pond)drawPond(o,t,lt);
+  if(ghost=='pond'&&hoverT)drawPond({x:hoverT[0],y:hoverT[1]},t,lt,0.6)});
+ BUS.on('over',(t,lt,sv)=>{
+  // 나비
+  for(const b of butts){const[X,Y]=iso(b.x,b.y);const fl=Math.abs(Math.sin(t/70+b.p));cx.fillStyle=b.c;cx.fillRect(X-1.6*fl,Y-b.h-0.8,1.6*fl,1.6);cx.fillRect(X,Y-b.h-0.8,1.6*fl,1.6);cx.fillStyle='#3a3026';cx.fillRect(X-0.3,Y-b.h-0.9,0.6,1.8);cx.fillStyle='rgba(30,30,20,0.18)';cx.fillRect(X-1,Y,2,0.7)}
+  // 이펙트
+  cx.textAlign='center';
+  for(const e of fx){const a=Math.min(1,e.l/e.L*2);
+   if(e.k=='drop'){const[X,Y]=iso(e.x,e.y);const k=1-e.l/e.L;cx.fillStyle=`rgba(225,250,255,${a})`;for(let i=0;i<e.n;i++){const an=i/e.n*6.28;cx.fillRect(X+Math.cos(an)*k*5,Y-4-Math.sin(k*3.14)*6+Math.sin(an)*k*2,1,1)}}
+   else if(e.g&&!e.g.dead){const[X,Y]=iso(e.g.x,e.g.y);const k=1-e.l/e.L;const hy=e.g.inBath?10:16;
+    if(e.k=='zz'){cx.fillStyle=`rgba(240,246,255,${a})`;cx.font='bold 5px sans-serif';cx.fillText('z',X+4+k*3,Y-hy-k*6);cx.font='bold 3.5px sans-serif';cx.fillText('z',X+7+k*4,Y-hy-3-k*8)}
+    else if(e.k=='note'){cx.fillStyle=e.c=='♥'?`rgba(255,140,170,${a})`:`rgba(255,240,180,${a})`;cx.font='bold 5px sans-serif';cx.fillText(e.c,X+Math.sin(k*6)*2,Y-hy-k*8)}
+    else if(e.k=='yawn'){cx.fillStyle=`rgba(255,255,255,${a*0.8})`;cx.font='4px sans-serif';cx.fillText('~',X+5,Y-hy-k*3)}
+    else if(e.k=='heart'){cx.fillStyle=`rgba(255,120,150,${a})`;cx.font='bold 7px sans-serif';cx.fillText('♥',X,Y-hy-6-k*10)}}
+   else if(e.k=='spark'){const[X,Y]=iso(e.x,e.y);const k=1-e.l/e.L;cx.fillStyle=`rgba(255,246,200,${a})`;for(let i=0;i<6;i++){const an=i/6*6.28+k;const r=4+k*9;cx.fillRect(X+Math.cos(an)*r-0.6,Y-e.h+Math.sin(an)*r*0.6-0.6,1.2,1.2)}}
+   else if(e.k=='ring'){const[X,Y]=iso(e.x,e.y);const k=1-e.l/e.L;cx.strokeStyle=`rgba(255,255,255,${a*0.8})`;cx.lineWidth=0.7;cx.beginPath();cx.ellipse(X,Y,3+k*12,1.5+k*6,0,0,6.283);cx.stroke()}}
+  // 구름 그림자
+  if(lt.sun>0.15){cx.save();cx.globalCompositeOperation='multiply';cx.globalAlpha=0.16*lt.sun;const T=t/1000;
+   for(let i=0;i<5;i++){const wx=((T*(6+wind*4)+i*380)%2200)-500,wy=-200+i*170+Math.sin(T/40+i)*60;const s=160+i%3*70;cx.drawImage(B_SH,wx-s,wy-s*0.5,s*2,s);cx.drawImage(B_SH,wx-s*0.3,wy-s*0.6,s*1.4,s*0.8)}cx.restore()}
+ });
+ BUS.on('screen',(t,lt)=>{const z=cam.z;
+  // 반딧불
+  if(flies.length){cx.globalCompositeOperation='lighter';for(const f of flies){const[a,b]=iso(f.x,f.y);const[X,Y]=toScreen(a,b-f.h);const pu=(Math.sin(f.l*2.5+f.p)+1)/2;if(pu<0.15)continue;const r=(3+pu*4)*z;cx.globalAlpha=pu*Math.min(1,f.l);cx.drawImage(B_FF,X-r,Y-r,r*2,r*2);cx.fillStyle='#f6ffd0';cx.fillRect(X-0.6*z,Y-0.6*z,1.2*z,1.2*z)}cx.globalAlpha=1}
+  // 석등 일렁임
+  if(lt.night>0.3){cx.globalCompositeOperation='lighter';for(const o of S.objs){if(o.k!='lantern')continue;const G=objGeom(o);const[X,Y]=toScreen(G.X,G.Y-G.H*0.55);const fl=0.6+0.4*Math.sin(t/90+o.x*3)*Math.sin(t/233+o.y);const r=(9+fl*4)*z;cx.globalAlpha=0.25*fl*lt.night;cx.drawImage(B_WARM,X-r,Y-r,r*2,r*2)}cx.globalAlpha=1}
+  cx.globalCompositeOperation='source-over';
+  // 새
+  for(const b of birds){const w=Math.sin(t/110+b.p)*3*b.s;cx.strokeStyle='rgba(50,45,50,0.55)';cx.lineWidth=1.2;cx.beginPath();cx.moveTo(b.x-5*b.s,b.y-w);cx.quadraticCurveTo(b.x-2*b.s,b.y-1,b.x,b.y);cx.quadraticCurveTo(b.x+2*b.s,b.y-1,b.x+5*b.s,b.y-w);cx.stroke()}
+ });
+ // ---- 탭 반응 ----
+ function tap(fx_,fy_,sx,sy){let best=null,bd=1e9;for(const g of guests){if(g.hide||g.dead)continue;const[X,Y]=toScreenT(g.x,g.y);const d=Math.hypot(X-sx,(Y-7*cam.z)-sy);if(d<bd){bd=d;best=g}}
+  if(best&&bd<9*cam.z+6){best.hop=0.5;fx.push({k:'heart',g:best,l:1.2,L:1.2});if(best.inBath)fx.push({k:'ring',x:best.x,y:best.y,l:1,L:1},{k:'drop',x:best.x,y:best.y,n:8,l:0.7,L:0.7});
+   const L=best.inBath?['아~ 좋다','뜨끈뜨끈','최고야…','♨ 행복']:['안녕하세요!','여기 좋네요','유자 냄새~','오늘 날씨 좋다'];think(best,L[(R()*L.length)|0]);window.SND&&SND.squeak&&SND.squeak();return true}
+  const o=OCC[(fx_|0)+','+(fy_|0)];if(o&&!DEF[o.k].isPath){const c=ctr(o);o.sway=Math.min(0.4,(o.sway||0)+0.3);fx.push({k:'spark',x:c[0],y:c[1],h:DEF[o.k].tree?20:10,l:0.8,L:0.8});
+   if(DEF[o.k].pond){const d=pondData(o);const[X,Y]=iso(fx_,fy_);d.rip.push({x:X,y:Y,l:1.6},{x:X+2,y:Y+1,l:1.2})}}
+  return false}
+ // ---- 바람 & 갱신 ----
+ BUS.on('frame',(dt,t)=>{windT+=dt;const target=Math.sin(windT/23)*0.6+Math.sin(windT/7.3)*0.25;wind+=(target-wind)*Math.min(1,dt*0.5);window.WIND=wind;updCreatures(dt,t,light());zenStep(dt,t)});
+ // ---- 감상 모드 ----
+ let zen=false,zT=0,zHint=null;
+ function zenStep(dt,t){if(!zen)return;zT+=dt;const P=Object.keys(S.plots).map(k=>k.split(',').map(Number));let cx_=0,cy_=0;for(const[a,b]of P){cx_+=a*PS+PS/2;cy_+=b*PS+PS/2}cx_/=P.length;cy_/=P.length;
+  const span=PS*0.28*Math.sqrt(P.length);const tx_=cx_+Math.sin(zT/37)*span,ty_=cy_+Math.sin(zT/53+1)*span;const zz=(VW>820?3.4:2.6)+Math.sin(zT/29)*0.5;
+  const[wx,wy]=iso(tx_,ty_);const k=Math.min(1,dt*(zT<3?1.6:0.35));cam.z+=(zz-cam.z)*k;cam.tz=cam.z;const gx=VW/2-wx*cam.z,gy=VH/2-wy*cam.z;cam.x+=(gx-cam.x)*k;cam.y+=(gy-cam.y)*k}
+ function setZen(on){zen=on;zT=0;document.body.classList.toggle('zen',on);if(on){zHint=document.createElement('div');zHint.id='zenHint';zHint.textContent='감상 모드 · 아무 곳이나 누르거나 Esc로 나가기';document.body.appendChild(zHint);setTimeout(()=>zHint&&zHint.classList.add('fade'),2500);window.SND&&SND.init&&SND.init()}else{zHint&&zHint.remove();zHint=null}}
+ addEventListener('keydown',e=>{if(e.key=='Escape'&&zen){setZen(false);e.stopPropagation()}else if((e.key=='z'||e.key=='Z')&&!e.ctrlKey&&document.activeElement.tagName!='INPUT')setZen(!zen)},true);
+ addEventListener('pointerdown',e=>{if(zen&&!e.target.closest('#zenBtn')){setZen(false);e.stopPropagation();e.preventDefault()}},true);
+ const tb=document.getElementById('tools');if(tb){const b=document.createElement('button');b.className='tool';b.id='zenBtn';b.innerHTML='🍃<i>감상</i>';b.title='감상 모드 (Z)';b.onclick=e=>{e.stopPropagation();setZen(true)};tb.appendChild(b)}
+ return{tap,setZen,get zen(){return zen},flies,butts,birds,fx};
+})();
+window.AMB=AMB;

diff --git a/shot6.js b/shot6.js
@@ -1,0 +1,11 @@
+const {chromium}=require('playwright');
+(async()=>{const b=await chromium.launch();const p=await b.newPage({viewport:{width:1440,height:900}});const errs=[];p.on('pageerror',e=>errs.push(e.message));p.on('console',m=>{if(m.type()=='error')errs.push(m.text())});
+ await p.goto('http://localhost:8765/index.html');await p.waitForFunction(()=>window.__ready);
+ await p.evaluate(()=>{const D=__dbg,S=D.S;S.yen=1e6;const add=(k,x,y)=>{if(D.canPlace(k,x,y)){S.objs.push({k,x,y,lv:1,price:D.DEF[k].price||0,uses:0,earn:0,users:0});D.occ()}};add('pond',27,17);add('sakura',30,18);add('maple',26,21);add('pine',17,18);add('lantern',27,21);add('ramen',18,22);add('milk',29,25);for(let i=0;i<400;i++)D.step(0.1)});
+ const at=async(min,name,z)=>{await p.evaluate(([m,z])=>{__dbg.S.min=Math.floor(__dbg.S.min/1440)*1440+m;if(z)__dbg.cam.tz=z},[min,z]);await p.waitForTimeout(1500);await p.screenshot({path:name})};
+ await at(10*60+30,'shot_amb_day.png');
+ await p.evaluate(()=>{__dbg.focusXY&&__dbg.focusXY(28.5,18.5,5)});await at(10*60+30,'shot_amb_pond.png');
+ await at(21*60+30,'shot_amb_night.png');
+ await p.keyboard.press('z');await at(16*60+40,'shot_amb_zen.png');await p.waitForTimeout(4000);await p.screenshot({path:'shot_amb_zen2.png'});
+ const fps=await p.evaluate(()=>new Promise(r=>{let n=0,t0=performance.now();const f=()=>{n++;if(performance.now()-t0<2000)requestAnimationFrame(f);else r(n/2)};requestAnimationFrame(f)}));
+ console.log('fps',fps,'ERR',JSON.stringify(errs.slice(0,5)));await b.close()})();

diff --git a/style.css b/style.css
@@ -59,3 +59,8 @@ canvas{display:block;position:fixed;left:0;top:0}#tc{pointer-events:none}
 .bk{background:#fff7e6;border:2px solid #d8bb8e;border-radius:6px;padding:4px;text-align:center;font-size:11px}.bk img{height:46px;max-width:100%;object-fit:contain;display:block;margin:0 auto}.bk b{display:block;font-size:12px}
 .bk.no img{filter:brightness(0) opacity(.25)!important}.bk .ph{height:46px;display:flex;align-items:center;justify-content:center;font-size:24px;color:#bba}
 @media (max-width:820px){#quest{top:auto;bottom:calc(42vh + 66px);width:200px;font-size:12px;padding:6px 8px}#quest .qs{display:none}}
+/* 감상 모드 */
+body.zen #top,body.zen #build,body.zen #bOpen,body.zen #tools,body.zen #info,body.zen #quest,body.zen #toast,body.zen #warn,body.zen #moveBar,body.zen .flycoin{opacity:0!important;pointer-events:none!important;transition:opacity .8s}
+#zenHint{position:fixed;left:50%;bottom:28px;transform:translateX(-50%);background:rgba(20,24,20,.45);color:#f4efe2;font:500 13px Pretendard,sans-serif;padding:8px 16px;border-radius:20px;backdrop-filter:blur(6px);transition:opacity 1.5s;z-index:50}
+#zenHint.fade{opacity:0}
+body.zen::after{content:'';position:fixed;inset:0;pointer-events:none;background:radial-gradient(ellipse at center,rgba(0,0,0,0) 55%,rgba(20,15,10,.28) 100%);z-index:5}

diff --git a/audio.js b/audio.js
@@ -24,6 +24,7 @@ const SND=(()=>{let ac=null,master=null,amb=null,bgmOn=false,muted=localStorage.
  api.coin=()=>{if(!ac)return;tone(1318,'square',0.06,0.03);tone(1975,'square',0.12,0.025,0.05)};
  api.build=()=>{if(!ac)return;tone(110,'sine',0.25,0.15);tone(70,'triangle',0.3,0.1,0.02);for(let i=0;i<4;i++)tone(1500+i*300,'sine',0.15,0.02,0.08+i*0.04)};
  api.upgrade=()=>{if(!ac)return;[523,659,784,1046,1318].forEach((f,i)=>tone(f,'triangle',0.35,0.05,i*0.07))};
+ api.squeak=()=>{if(!ac)return;tone(1400,'sine',0.08,0.04);tone(1900,'sine',0.07,0.03,0.06)};
  api.click=()=>{if(!ac)return;tone(880,'sine',0.04,0.03)};
  api.quest=()=>{if(!ac)return;[784,988,1175,1568].forEach((f,i)=>{tone(f,'sine',1.2,0.05,i*0.09);tone(f*2,'sine',0.5,0.01,i*0.09)})};
  api.unlock=()=>{if(!ac)return;[392,523,659,784,1046].forEach((f,i)=>tone(f,'triangle',0.6,0.06,i*0.1))};

diff --git a/index.html b/index.html
@@ -34,4 +34,5 @@
 <script src="game.js"></script>
 <script src="audio.js"></script>
 <script src="meta.js"></script>
+<script src="ambient.js"></script>
 </body></html>

diff --git a/CHANGELOG.md b/CHANGELOG.md
@@ -1,4 +1,20 @@
 # CHANGELOG — 유자 온센 료칸 타이쿤
+ 
+## v2.6 — 앰비언트 & 감상 모드
+- 바람 시스템: 김·풀잎·나무가 함께 흔들림
+- 잔디 풀잎/작은 꽃(뷰포트 컬링), 저주파 색 얼룩으로 자연스러운 땅, 잔디 격자선 제거(건설 모드에서만 표시)
+- 비단잉어 연못(장식): 잉어·연잎·연꽃·물결·돌 테두리 절차적 렌더
+- 탕 커스틱 물결, 입욕 손님 주위 파문, 물방울 튀김, 졸음 zZ, 이웃끼리 ♪/♥
+- 낮 나비·새 떼, 밤 반딧불, 석등 일렁임, 구름 그림자
+- 카피바라 클릭 → 폴짝 + ♥ + 한마디 + 효과음, 시설 클릭 → 반짝 + 흔들림
+- 🍃 감상 모드(Z): UI 숨김, 느린 시네마틱 카메라, 비네팅
+- 급여: 레벨당 +50%(기존 +100%), 심야(23–6시) 비영업 시설 30%
+
+## v2.5 — 밸런스 & 길찾기
+- 별 등급 조건: 점수 + 누적 손님 + 부지 수 (2★≈33h, 3★≈119h, 4★≈290h 시뮬 기준)
+- 만석 시 잠시 대기 후 재시도, 막힌 시설은 손님별로 기억(불만 1회만)
+- 최대 손님 수를 시설 수용량에 연동, 급여는 잔액 한도 내 지급(미지급 시 평판 하락)
+- 길 타일 유지비 제외, 시설 주변 아무 타일로 접근(Dijkstra)
 
 ## v2.4 (2026-10-22)
 - 대문 2.5D 레이어: 문턱(바닥)·뒤 기둥·앞 기둥(개별 깊이정렬)·지붕/노렌(항상 손님 위) 분리, 문턱 높이(z) 3px, 지나갈 때 노렌 흔들림
@@ -22,9 +38,3 @@
 
 ## v2.0
 - 아이소메트릭 픽셀아트, 시간대 조명, 카피바라 손님, RCT식 경제
-
-## v2.5 — 밸런스 & 길찾기
-- 별 등급 조건: 점수 + 누적 손님 + 부지 수 (2★≈33h, 3★≈119h, 4★≈290h 시뮬 기준)
-- 만석 시 잠시 대기 후 재시도, 막힌 시설은 손님별로 기억(불만 1회만)
-- 최대 손님 수를 시설 수용량에 연동, 급여는 잔액 한도 내 지급(미지급 시 평판 하락)
-- 길 타일 유지비 제외, 시설 주변 아무 타일로 접근(Dijkstra)
